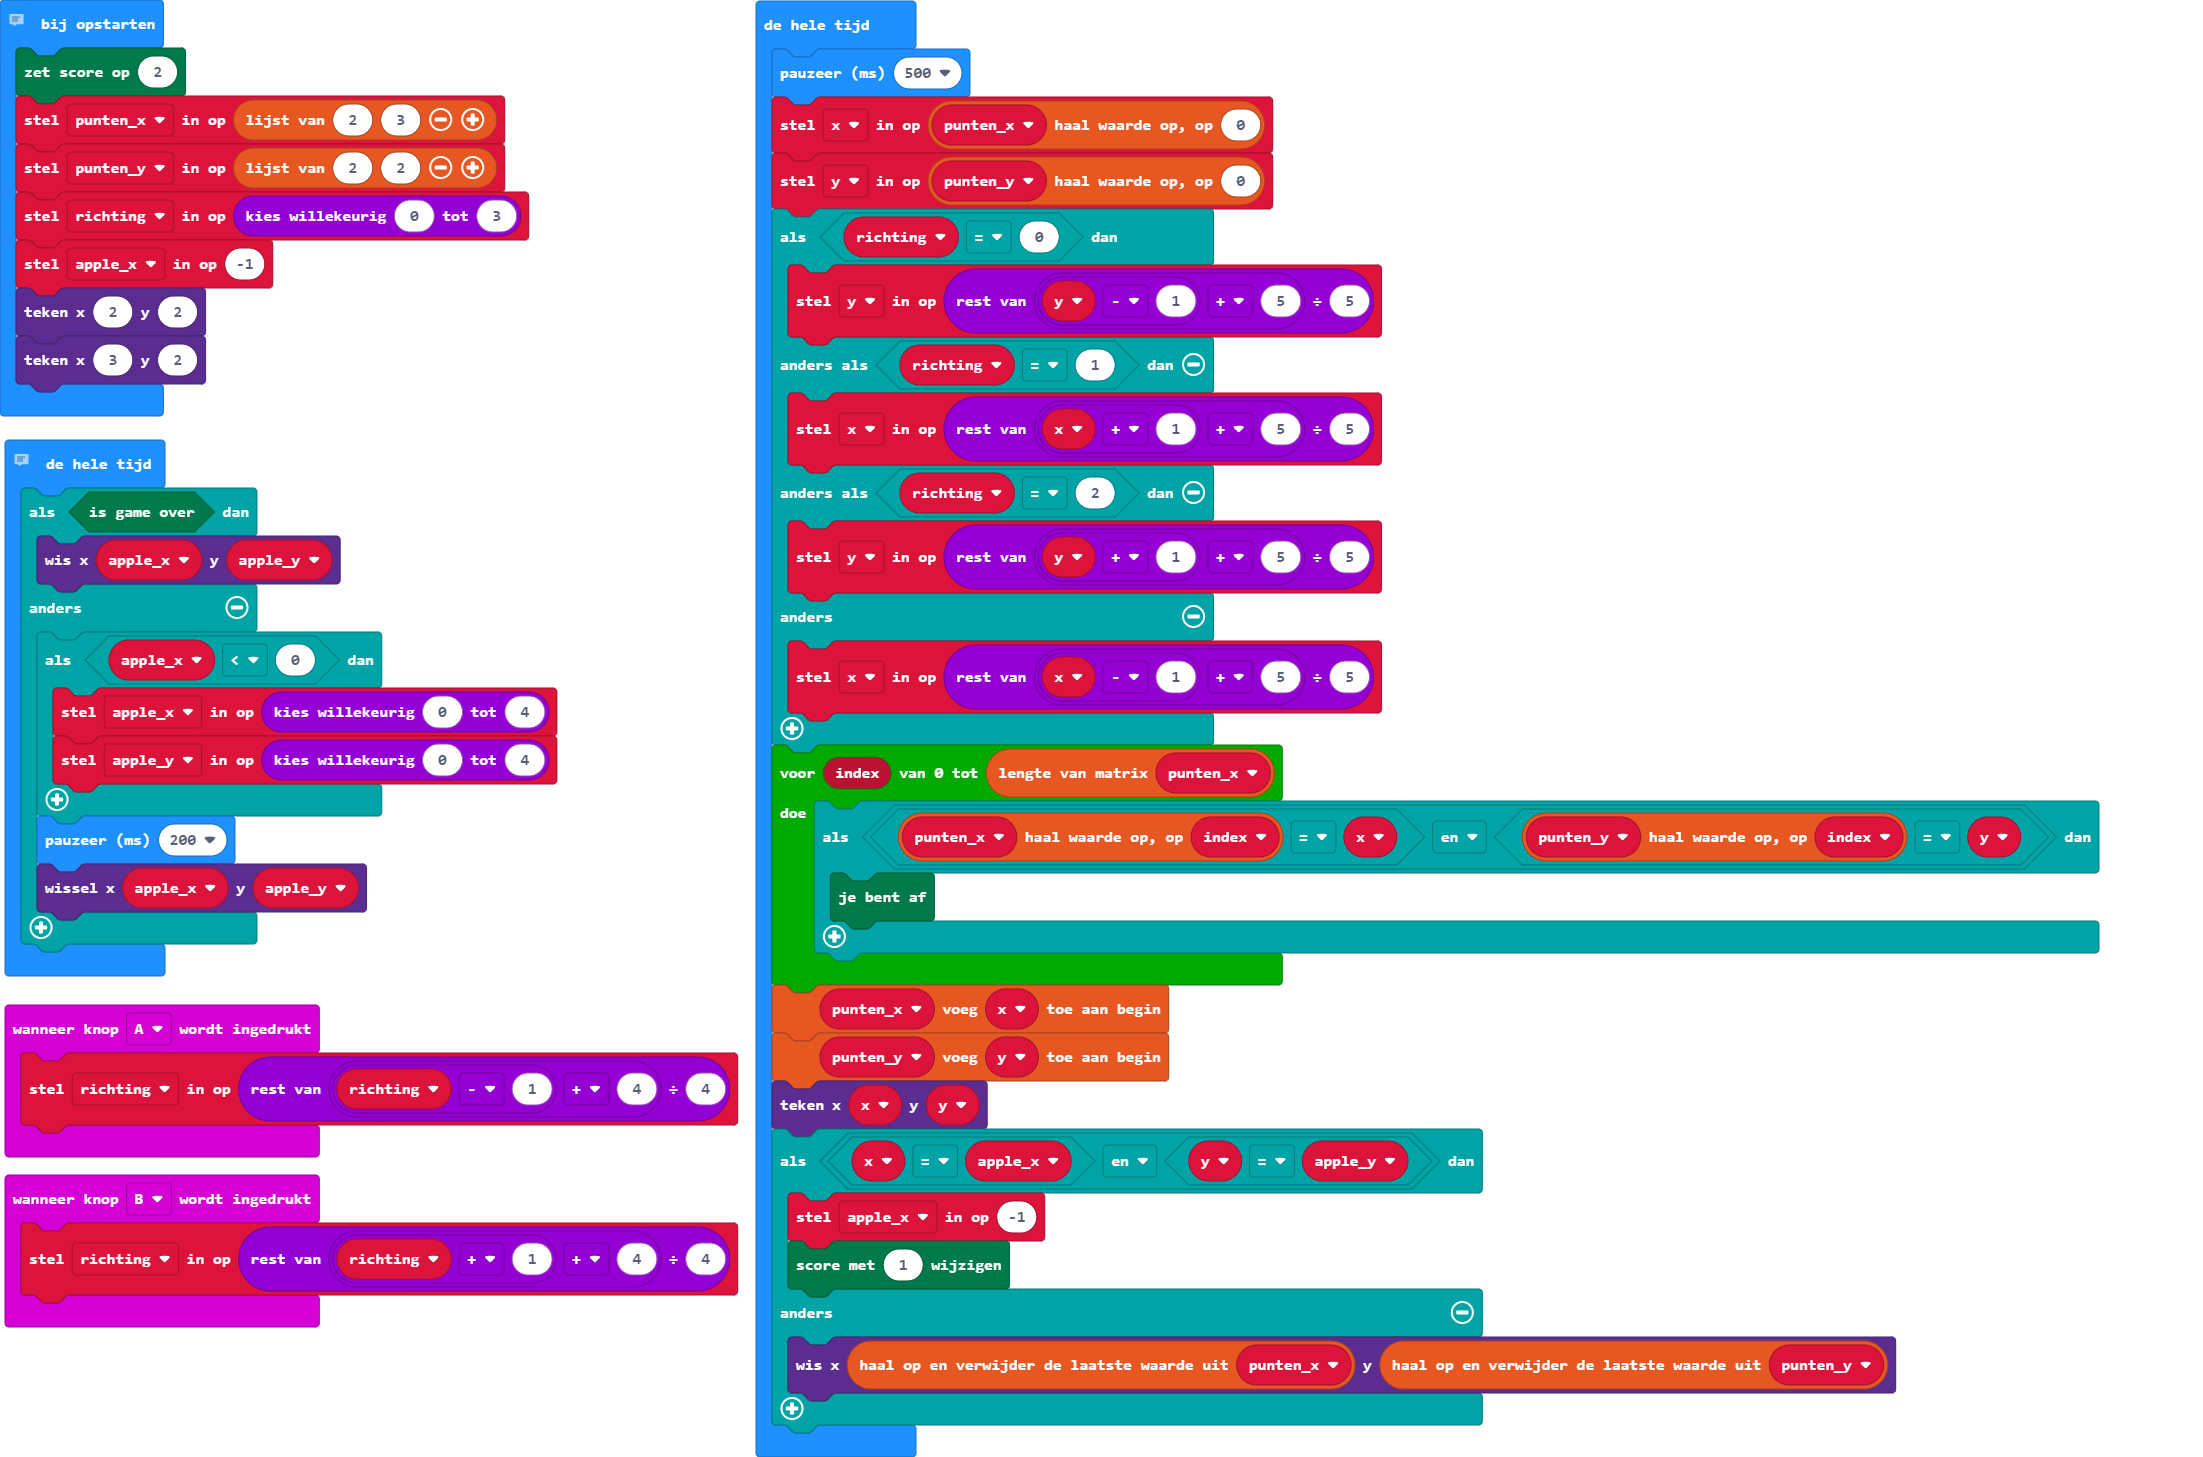
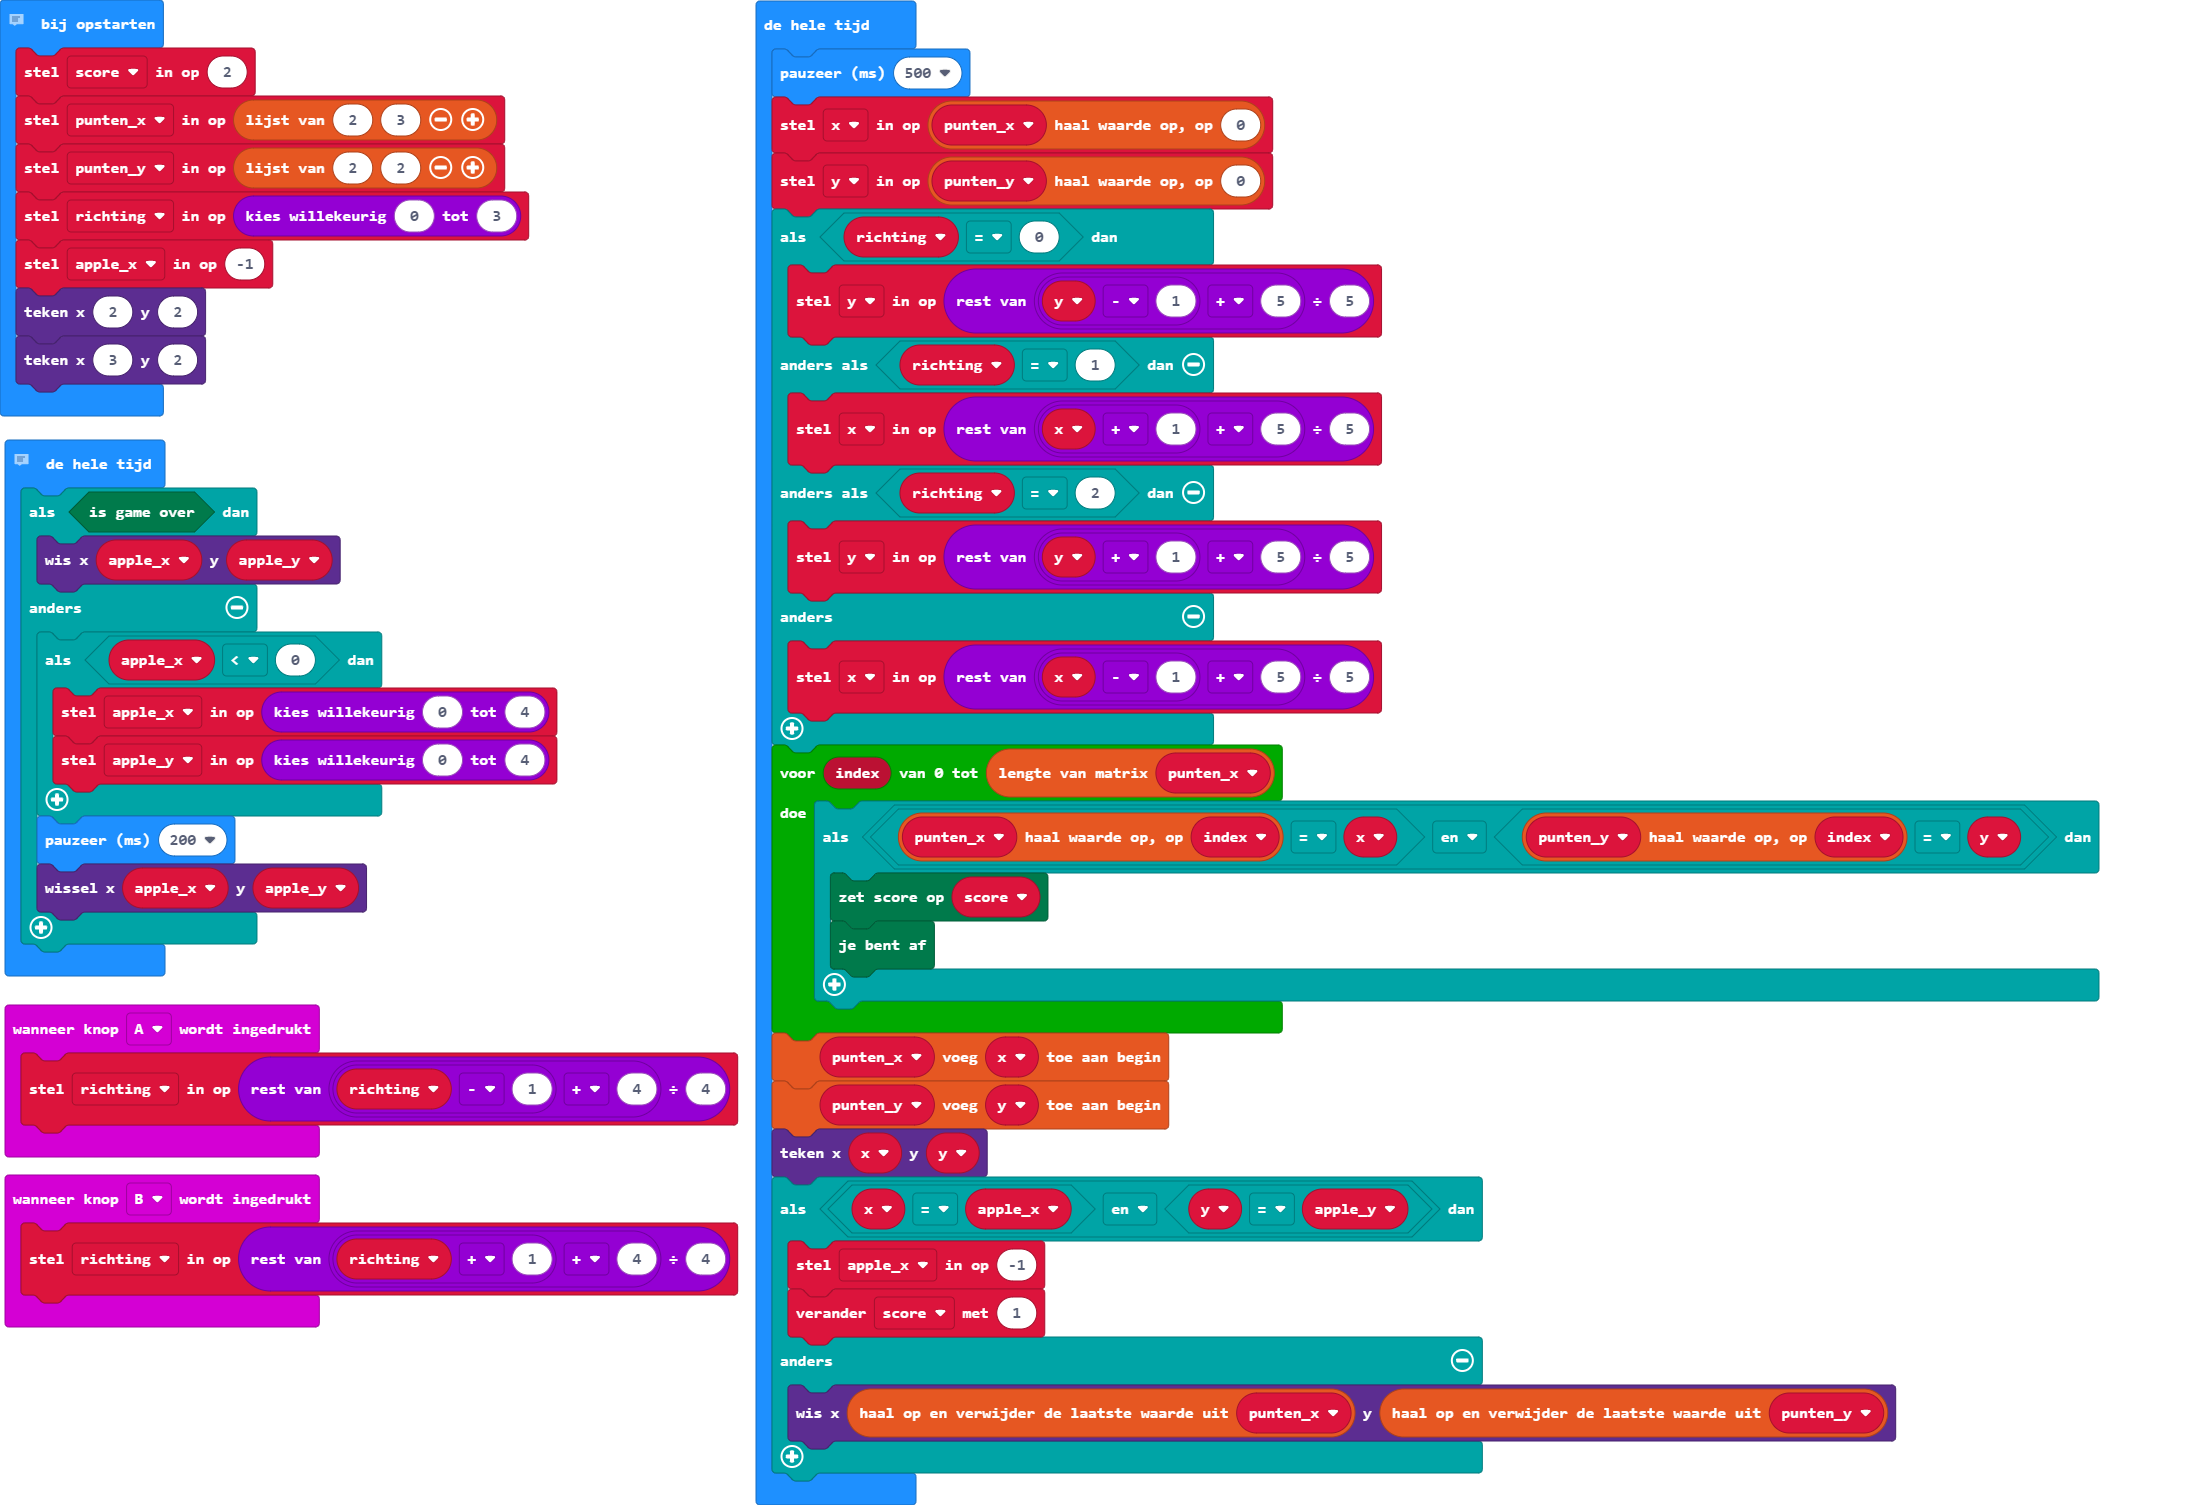
Afzonderlijke variabele voor score. Ingebouwde speelt animatie

Changed region(s): [[0.0, 0.0309, 0.9569, 0.9574], [0.3395, 0.9574, 0.3704, 0.9883]]

diff --git a/main.ts b/main.ts
@@ -9,7 +9,7 @@ let apple_y = 0
 let y = 0
 let x = 0
 let richting = 0
-game.setScore(2)
+let score = 2
 let punten_x = [2, 3]
 let punten_y = [2, 2]
 richting = randint(0, 3)
@@ -31,6 +31,7 @@ basic.forever(function () {
     }
     for (let index = 0; index <= punten_x.length; index++) {
         if (punten_x[index] == x && punten_y[index] == y) {
+            game.setScore(score)
             game.gameOver()
         }
     }
@@ -39,7 +40,7 @@ basic.forever(function () {
     led.plot(x, y)
     if (x == apple_x && y == apple_y) {
         apple_x = -1
-        game.addScore(1)
+        score += 1
     } else {
         led.unplot(punten_x.pop(), punten_y.pop())
     }
